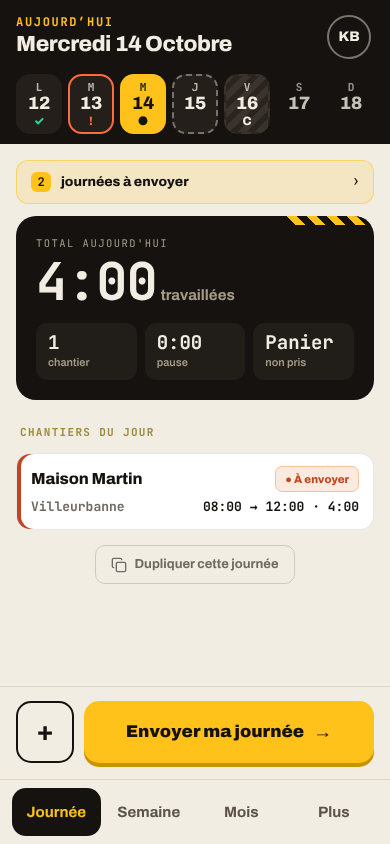
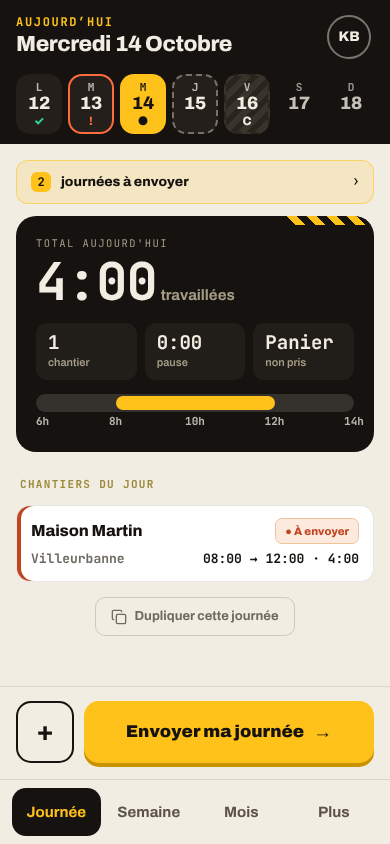
Design salarié, étape 4 (début) : mini-frise de la journée derrière ?ui=2 (#212)
Axe calculé par friseAxe (salarie-vue.ts). Sans ?ui=2, aucun changement. test:coque-v2 : 29 contrôles.

Claude-Session: https://claude.ai/code/session_01NFsHEtgNdCGXPvZ9Vg3ifB

Changed region(s): [[0.0308, 0.4621, 0.9846, 0.7393]]

diff --git a/components/poseur-day.tsx b/components/poseur-day.tsx
@@ -47,6 +47,10 @@ import { isReserveLifted } from '@/lib/reserves';
 // Lot 23 : chantier terminé — plus proposé dans les listes de choix, « Terminé le … » sur ses cartes.
 import TermineLe from '@/components/termine-le';
 import { choosableWorksites } from '@/supabase/functions/_shared/chantier-statut';
+// Design salarié, étape 4 : mini-frise de la journée (visible seulement avec ?ui=2).
+import { MiniFrise, type SegFrise } from '@/components/design/salarie/mini-frise';
+import { useUi2 } from '@/components/design/salarie/shell-v2';
+import { etatLigne } from '@/supabase/functions/_shared/salarie-vue';
 // Lot 4 : les réunions et les tâches du jour (lecture à part, rien sur les heures).
 import { MyMeetings, MyTasks, useMyMissions } from '@/components/missions-worker';
 
@@ -264,6 +268,7 @@ async function readLiveWithin(userId: string, ms: number): Promise<OwnLiveSessio
 }
 
 export default function PoseurDay({ date: dateProp, topBanner, onAssistant }: { date?: string; topBanner?: ReactNode; /** Lot 6 : bouton ✨ dans la barre (si l'assistant est activé). */ onAssistant?: () => void } = {}) {
+  const ui2 = useUi2();
   const { user } = useAuth();
   const [entries, setEntries] = useState<TimeEntryWithWorksite[]>([]);
   // Ce que le bureau (ou le chef) a corrigé sur MES heures. Le salarié doit le
@@ -1571,6 +1576,25 @@ export default function PoseurDay({ date: dateProp, topBanner, onAssistant }: { 
     ...pendingEntries.map((e) => ({ start: e.start_time.slice(0, 5), end: e.end_time.slice(0, 5) })),
   ];
   const plannedTodo = visiblePlannings(plannedRemaining, daySpans);
+  // Design salarié, étape 4 (?ui=2) : les segments de la mini-frise — lignes notées (envoyées / à envoyer / sortie oubliée), prévu pas encore noté, pointage en cours.
+  const friseSegments: SegFrise[] = !ui2 ? [] : (() => {
+    const segs: SegFrise[] = [
+      ...liveEntries.filter((e) => e.start_time && e.end_time && e.status !== 'cancelled').map((e): SegFrise => {
+        const et = etatLigne(e);
+        return { debut: e.start_time.slice(0, 5), fin: e.end_time.slice(0, 5), type: et === 'envoyee' || et === 'comptable' ? 'fait' : et === 'fin-a-completer' || et === 'sortie-oubliee' ? 'oublie' : 'a-envoyer' };
+      }),
+      ...pendingEntries.map((e): SegFrise => ({ debut: e.start_time.slice(0, 5), fin: e.end_time.slice(0, 5), type: 'a-envoyer' })),
+      ...plannedTodo.filter((p) => p.estimated_start).map((p): SegFrise => {
+        const d = p.estimated_start!.slice(0, 5);
+        const f = p.estimated_end ? p.estimated_end.slice(0, 5) : `${String(Math.min(23, Number(d.slice(0, 2)) + 4)).padStart(2, '0')}${d.slice(2)}`;
+        return { debut: d, fin: f, type: 'prevu' };
+      }),
+    ];
+    const ouvert = live.session;
+    if (ouvert?.started_at) { const c = parisClock(ouvert.started_at); if (c.date === date) segs.push({ debut: c.hm, fin: parisClock(Date.now()).hm, type: 'en-cours' }); }
+    // Dans l'ordre de la journée (une nuit à cheval garde l'ordre reçu : l'axe sait la lire).
+    return segs.some((s) => s.fin < s.debut) ? segs : segs.sort((a, b) => a.debut.localeCompare(b.debut));
+  })();
 
   /**
    * Le chrono ouvert, placé sur SA carte (lot 9) — même règle que le bureau et
@@ -1929,6 +1953,7 @@ export default function PoseurDay({ date: dateProp, topBanner, onAssistant }: { 
             </button>
             )}
           </div>
+          {ui2 && <MiniFrise segments={friseSegments} />}
         </div>
 
         {/* Lot 4 : les réunions du jour, au-dessus des chantiers (jamais des heures). */}

diff --git a/components/design/salarie/mini-frise.tsx b/components/design/salarie/mini-frise.tsx
@@ -1,0 +1,36 @@
+'use client';
+
+// Design salarié · ÉTAPE 4 — la mini-frise de la journée : une barre qui montre, d'un coup d'œil, ce qui est fait, ce qui reste à envoyer, ce qui est prévu et le pointage en cours.
+// Présentation seulement : l'axe et le placement viennent de salarie-vue.ts (`friseAxe`, testé sur les 7 cas de l'audit). Visible seulement avec `?ui=2`.
+import { friseAxe, type SegmentFrise } from '@/supabase/functions/_shared/salarie-vue';
+
+export type TypeFrise = 'fait' | 'a-envoyer' | 'prevu' | 'en-cours' | 'oublie';
+export interface SegFrise extends SegmentFrise { type: TypeFrise; label?: string }
+const LIB: Record<TypeFrise, string> = { fait: 'envoyé', 'a-envoyer': 'à envoyer', prevu: 'prévu', 'en-cours': 'en cours', oublie: 'sortie oubliée' };
+
+export function MiniFrise({ segments }: { segments: SegFrise[] }) {
+  if (!segments.length) return null;
+  const axe = friseAxe(segments);
+  const pct = (m: number) => `${(((m - axe.debut) / axe.largeur) * 100).toFixed(2)}%`;
+  const resume = segments.map((s, i) => `${axe.segments[i] ? `${s.debut} à ${s.fin}` : ''} ${LIB[s.type]}`).join(', ');
+  return (
+    <div className="dz-frise" role="img" aria-label={`Ma journée en un coup d’œil : ${resume}`} data-testid="dz-frise">
+      <div className="dz-frise-piste">
+        {axe.segments.map((a, i) => (
+          <span
+            key={i}
+            className={`dz-frise-seg dz-frise-${segments[i].type}${a.point ? ' is-point' : ''}`}
+            style={{ left: pct(a.debut), width: a.point ? undefined : `calc(${pct(a.fin)} - ${pct(a.debut)})` }}
+            data-testid={`dz-frise-seg-${segments[i].type}`}
+          />
+        ))}
+        {axe.minuit !== null && <span className="dz-frise-minuit" style={{ left: pct(axe.minuit) }} />}
+      </div>
+      <div className="dz-frise-ticks" aria-hidden="true">
+        {axe.ticks.filter((_, i) => i % Math.max(1, Math.round(axe.ticks.length / 6)) === 0).map((t) => (
+          <span key={t.min} style={{ left: pct(t.min) }}>{t.label === 'minuit' ? 'minuit' : `${Math.floor((((t.min % 1440) + 1440) % 1440) / 60)}h`}</span>
+        ))}
+      </div>
+    </div>
+  );
+}

diff --git a/components/design/salarie/shell-v2.css b/components/design/salarie/shell-v2.css
@@ -29,3 +29,17 @@
 .bt-ui2 .dz-onglet.is-on{background:#15120F;color:#FFC21A}
 .bt-ui2 .dz-onglet-badge{position:absolute;top:6px;right:14px;min-width:20px;height:20px;padding:0 5px;border-radius:999px;background:#E53935;color:#fff;font:800 12px/20px Archivo,system-ui,sans-serif}
 @media (prefers-reduced-motion:reduce){.bt-ui2 *{transition:none!important}}
+/* Étape 4 — mini-frise de la journée (dans la carte « Total aujourd'hui »). */
+.bt-ui2 .dz-frise{margin-top:14px}
+.bt-ui2 .dz-frise-piste{position:relative;height:18px;border-radius:9px;background:rgba(242,237,227,.14);overflow:hidden}
+.bt-ui2 .dz-frise-seg{position:absolute;top:2px;bottom:2px;border-radius:7px;min-width:6px}
+.bt-ui2 .dz-frise-fait{background:#2ED3A0}
+.bt-ui2 .dz-frise-a-envoyer{background:#FFC21A}
+.bt-ui2 .dz-frise-prevu{background:repeating-linear-gradient(135deg,rgba(242,237,227,.55) 0 4px,rgba(242,237,227,.18) 4px 8px)}
+.bt-ui2 .dz-frise-en-cours{background:#2FA36B;box-shadow:0 0 0 2px rgba(46,211,160,.45)}
+.bt-ui2 .dz-frise-oublie{background:#FF6B3D}
+.bt-ui2 .dz-frise-seg.is-point{width:8px;border-radius:999px}
+.bt-ui2 .dz-frise-minuit{position:absolute;top:0;bottom:0;width:2px;background:#F2EDE3}
+.bt-ui2 .dz-frise-ticks{position:relative;height:16px;margin-top:4px;font:600 11px/1 'JetBrains Mono',ui-monospace,monospace;color:rgba(242,237,227,.75)}
+.bt-ui2 .dz-frise-ticks span{position:absolute;transform:translateX(-50%);white-space:nowrap}
+.bt-ui2 .dz-frise-ticks span:first-child{transform:none}

diff --git a/docs/REPRISE.md b/docs/REPRISE.md
@@ -24,3 +24,4 @@
 - Le patron a donné TOUTES les autorisations sur ce projet (15 oct. 2026) : ne plus lui demander de permission. Prochain chantier : design salarié étape 2 (logique pure + séparation modèle/vue), IA gelée.
 - Design salarié étape 2 (partie sûre) FAITE : `supabase/functions/_shared/salarie-vue.ts` (+ test, `npm run test:salarie-vue`) = règles pures (état d'une ligne et d'un jour, bande des 7 jours, semaine ISO, kicker, aide d'envoi, raison d'échec, axe de la mini-frise) ; pas encore branchées sur l'écran. Reste de l'étape 2 : `usePoseurDay()` / `JourneeV1` (éclatement de poseur-day.tsx), à faire avec les 31 scripts rejoués sans modification.
 - Design salarié ÉTAPE 3 (coque v2) FAITE, derrière `?ui=2` (aperçus seulement, mémorisé en session, `?ui=1` l'éteint) : en-tête avec le petit mot du jour, bande des 7 jours (états de salarie-vue.ts, lue dans les MÊMES requêtes que les bandeaux), barre du bas Journée/Semaine/Mois/Plus. Fichiers : `components/design/salarie/shell-v2.tsx|css`, branchement dans `app/poseur/page.tsx`. Test : `npm run test:coque-v2` (22 contrôles + captures dans docs/design-brief/integration/captures-coque-v2). Sans `?ui=2` : identique à main (11 captures sur 12 identiques octet pour octet, la 12e à 2 pixels d'écart, bruit du calendrier). La clôture de mois n'est pas encore dans la bande (aucune requête de plus). Reste : étape 4 (carte de pointage, tuiles, mini-frise, cartes chantier), puis feuilles (5), Semaine/Plus/Équipe (6), /pointer (7), assistant (8), guides (9), bascule (11).
+- Design salarié ÉTAPE 4 (première partie) FAITE derrière `?ui=2` : mini-frise de la journée (`components/design/salarie/mini-frise.tsx`, dans la carte « Total aujourd'hui » de poseur-day.tsx ; axe = `friseAxe` de salarie-vue.ts). `npm run test:coque-v2` : 29 contrôles. Sans `?ui=2` : captures identiques à main (1 pixel de bruit sur le calendrier). Reste de l'étape 4 : carte de pointage, tuiles, cartes chantier à 10 états, trou route/pause. NOTE : `reserves-lot11` échoue (66/2) après minuit heure de Paris, même sur main : le test dépend de la date du jour (« Levée le 15 oct. »), pas du code.
